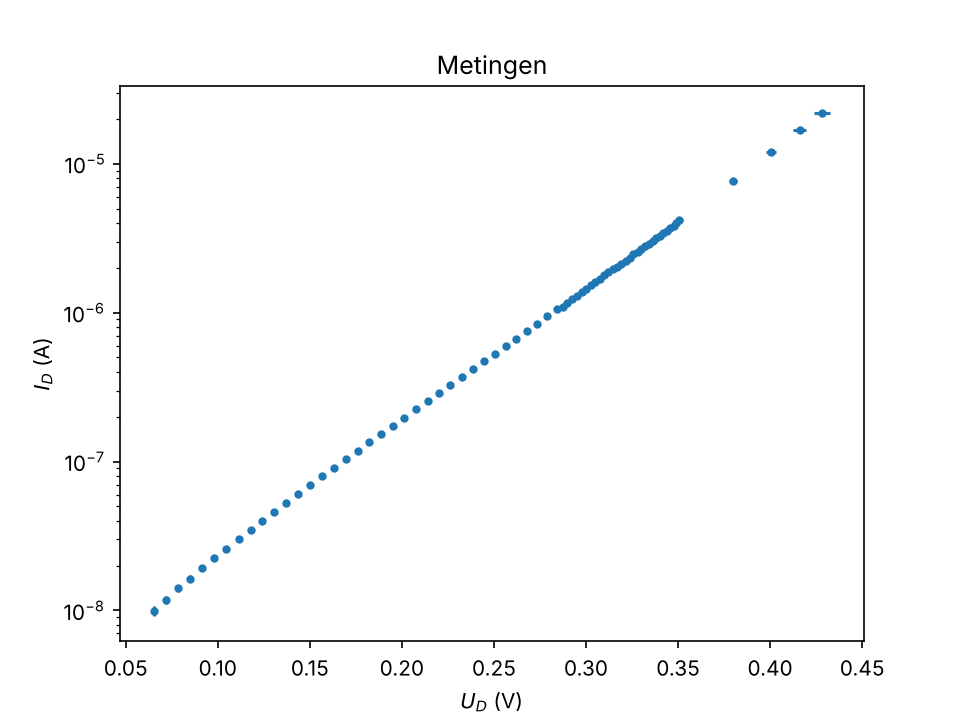
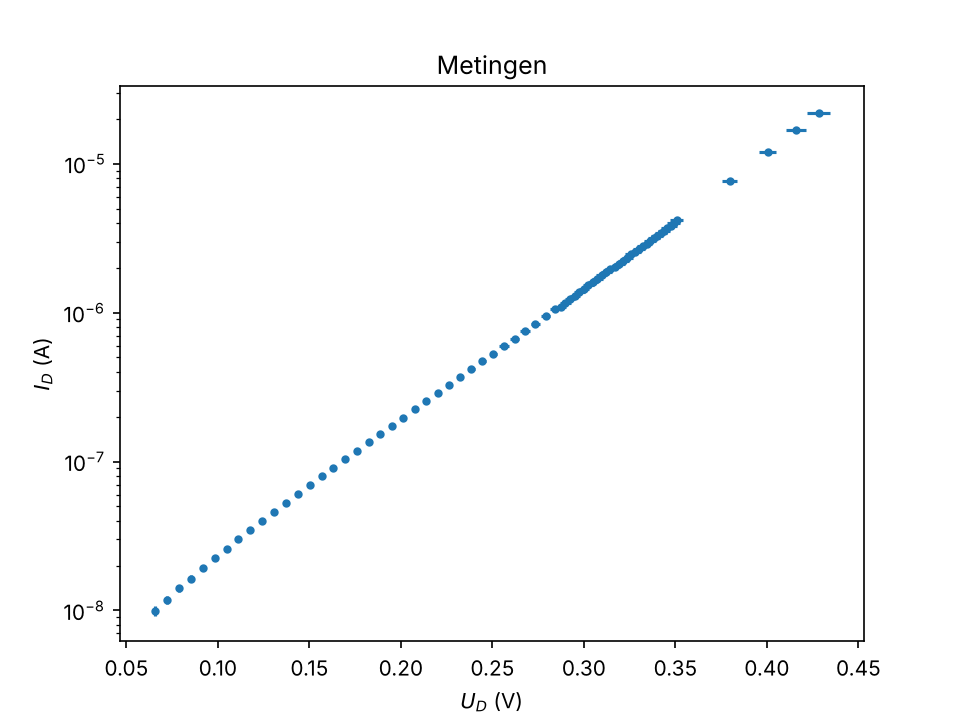
TN13015-EP1: use Amprobe 33XR-A spec (0.7% + 1 dgt) for source voltage
Claude-Session: https://claude.ai/code/session_013xBP3GcQz35z5QdcADH4oG

diff --git a/TN13015-EP1/fit_ex6.py b/TN13015-EP1/fit_ex6.py
@@ -28,11 +28,12 @@ V_Bron, V_Weerstand = np.loadtxt(os.path.join(map_data, "metingenboltzman.csv"),
 V_Weerstand = V_Weerstand / 1000          # mV -> V (csv staat in mV)
 
 # Onzekerheden meters
-# TODO: beide percentages nog controleren in de handleidingen van de meters.
-# Oude commentaar zei 0.1%, oude code 0.3%. Getest: 0.1% of 0.3% verandert kB met ~0.1%,
-# dat is verwaarloosbaar t.o.v. de 5% van n. Hier de ruimste (0.3%) aangehouden.
-procent_bron = 0.003                                                    # 3.5 DMM
-uV_Bron = V_Bron * procent_bron + np.where(V_Bron < 4, 0.001, 0.01)    # V (+1 digit: 1 mV / 10 mV)
+# Spanning over de bron gemeten met de Amprobe 33XR-A (4000 counts, handbediend bereik).
+# Spec DC V, alle bereiken: +-(0.7% van de aflezing + 1 digit)  (bron: amprobe.com/product/33xr-a)
+# 1 digit = 1 mV op het 4 V bereik, 10 mV op het 40 V bereik.
+procent_bron = 0.007
+uV_Bron = V_Bron * procent_bron + np.where(V_Bron < 4, 0.001, 0.01)    # V
+# TODO: 1.5% voor de 5.5 DMM nog controleren in de handleiding (welk type meter?)
 uV_Weerstand = V_Weerstand * 0.015 + 0.000006                           # V, 5.5 DMM
 
 # Bewerkte data

diff --git a/TN13015-EP1/README.md b/TN13015-EP1/README.md
@@ -10,16 +10,17 @@ Run: `python fit_ex6.py`
 
 ## Result
 
-kB = (1.35 ± 0.07)e-23 J/K, compared with 1.380649e-23 (exact). That is a 0.4σ difference, dominated by u(n) (5%).
+kB = (1.36 ± 0.07)e-23 J/K, compared with 1.380649e-23 (exact). That is a 0.3σ difference, dominated by u(n) (5%).
 
 ## Fixes compared with the first version
 
-1. The uncertainty in U_D is now included in the fit (effective variance). χ²_red went from 2.43 to 0.30.
+1. The uncertainty in U_D is now included in the fit (effective variance). χ²_red went from 2.43 to 0.13 (with the 0.7% from item 3).
 2. The range (0.066 to 0.428 V, while the manual asks for 0.1 to 0.6 V) is printed. A fit on U_D ≥ 0.1 V only gives kB = 1.352e-23, so it makes no difference.
-3. The meter percentage (0.1% or 0.3%) is now one variable. It changes kB by about 0.1%, which is negligible. 0.3% is used. **Still check it in the meter manual.**
+3. The source voltage is now measured with the Amprobe 33XR-A: ±(0.7% rdg + 1 dgt), per [amprobe.com](https://amprobe.com/product/33xr-a/). That is neither 0.1% nor 0.3%. kB changes by about 0.5%, which is negligible next to u(n).
 4. The uncertainty in R1 is not added per point, on purpose: it scales all currents and only ends up in I0, not in b. A 1% change in R1 changes kB by 0.006%.
 
 ## Open
 
-- χ²_red = 0.30 < 1 means the error bars are probably too large. The suspect is the 1.5% on the 5.5 DMM, which seems large for that meter. Check it in its manual.
+- χ²_red = 0.13 < 1 means the error bars are probably too large. The suspect is the 1.5% on the 5.5 DMM, which seems large for that meter. Check it in its manual.
 - The residuals show a clear S-shaped pattern, not scatter, so the model does not describe the data perfectly.
+- The V_Bron values are all round (1.00, 1.10, ... 4.55). If these are settings on the Siglent SPD3303C rather than readings from the 33XR-A, the supply spec applies instead: readback ±(0.5% + 2 or 3 digits), 10 mV resolution, with sources disagreeing on the number of digits.
